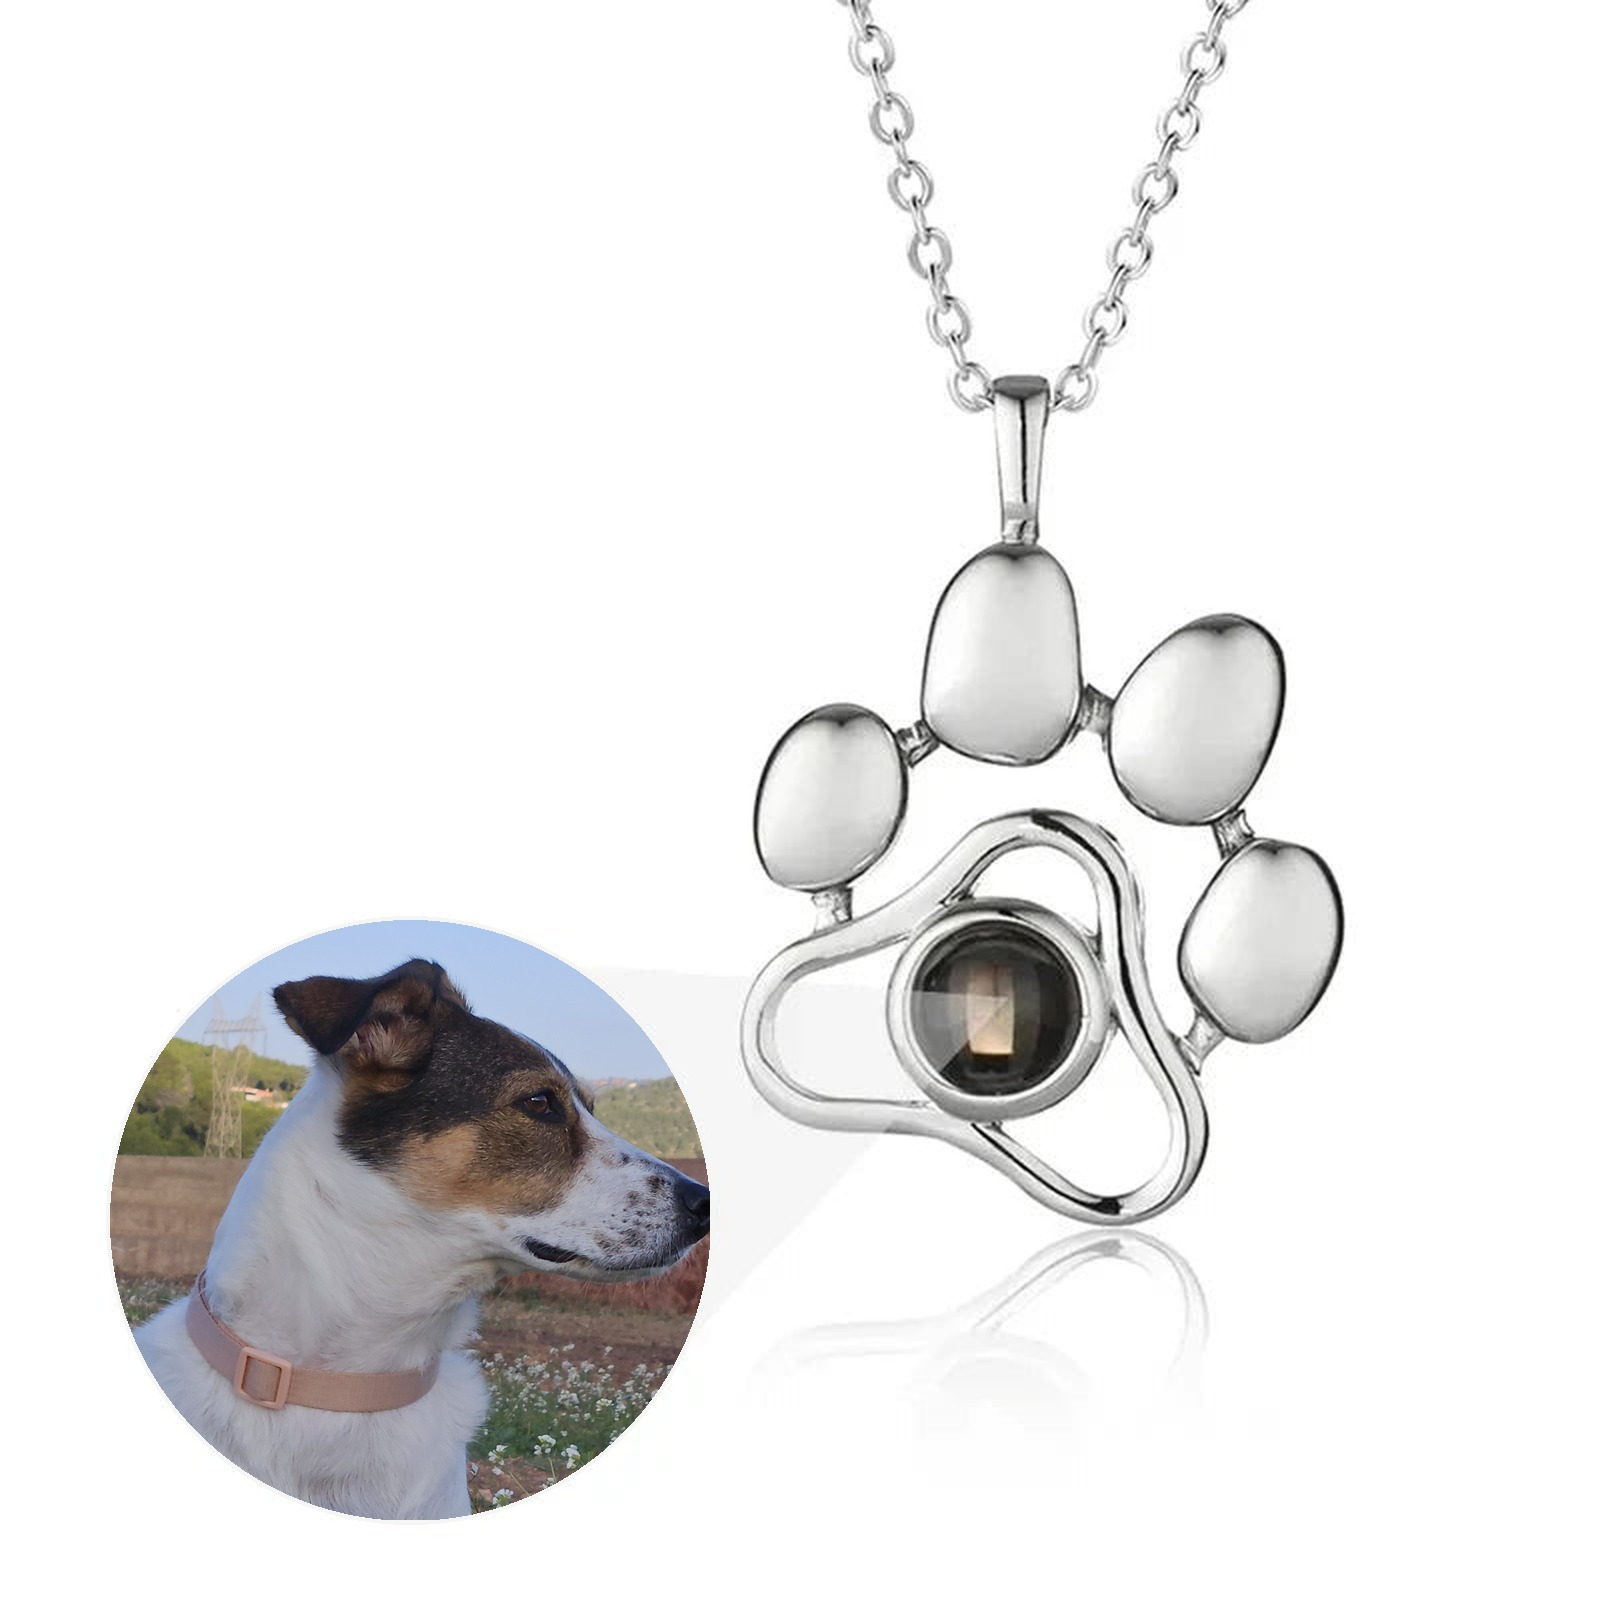
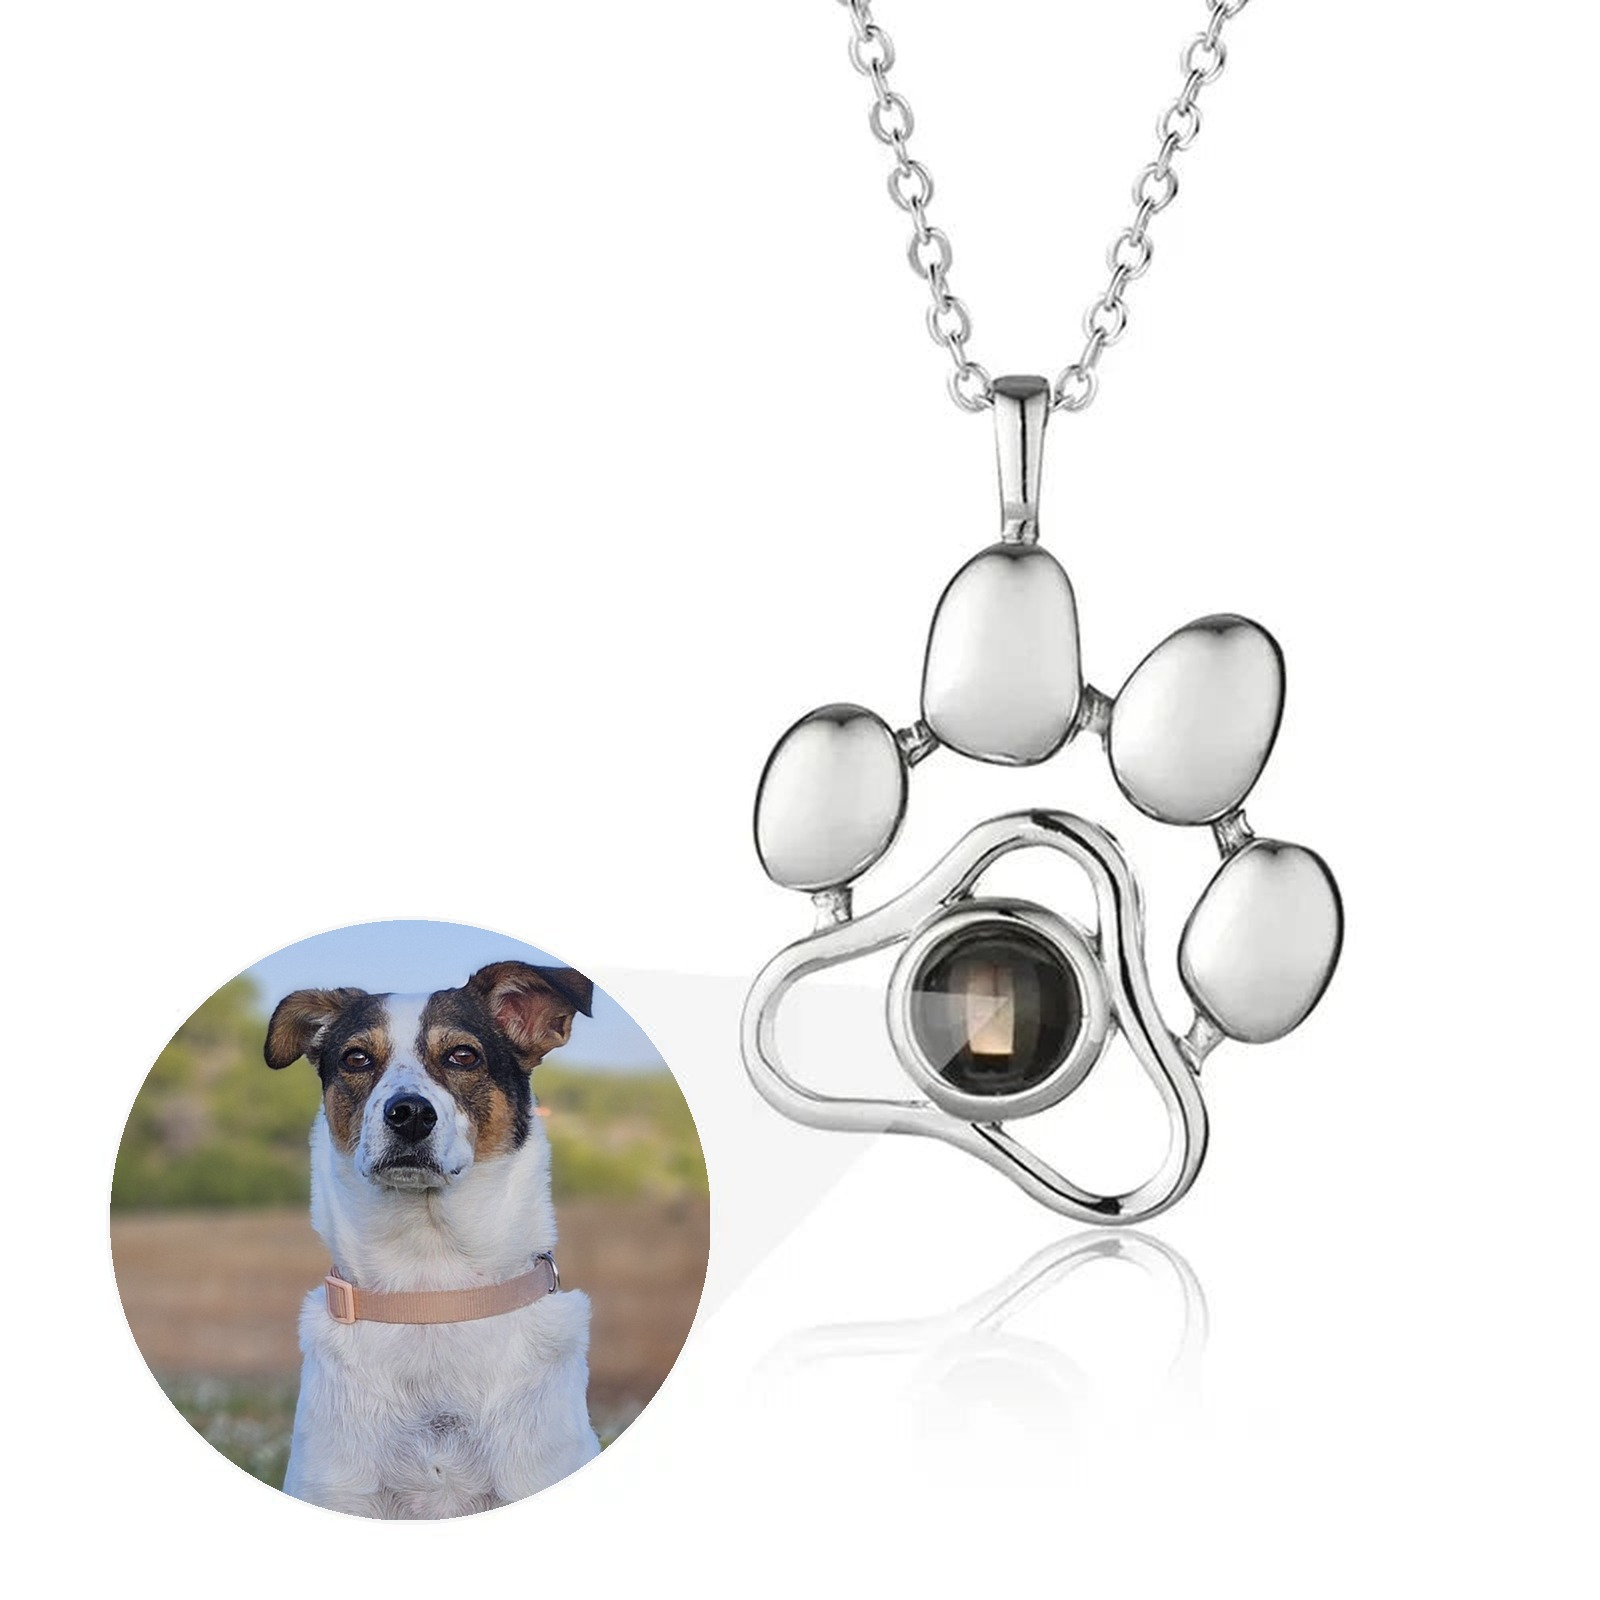
Alyha ep02 montaje, recursos (L1, linterna) y banco de próximas historias
Claude-Session: https://claude.ai/code/session_01A2ZK7ZZiebzPQrNhvhP4Ho

Changed region(s): [[0.0625, 0.5938, 0.4688, 0.9688]]

diff --git a/campanas/alyha/episodio-02/montar_ep02.py b/campanas/alyha/episodio-02/montar_ep02.py
@@ -1,0 +1,141 @@
+"""Monta el episodio 02 de Alyha (collar con foto dentro) sin coste.
+
+Uso: python3 montar_ep02.py <dir_entrada> <dir_salida> <fuente_DMSans.ttf>
+dir_entrada: L1.png, L2.png, pov.jpg, linterna.jpg, producto.jpg, real_trote.mp4
+Salida: escenas sueltas + E02-final.mp4 (con linterna) + E02-final-sin-linterna.mp4. Sin voz, sin metadatos.
+"""
+import math
+import subprocess
+import sys
+from pathlib import Path
+
+from PIL import Image, ImageDraw, ImageFilter, ImageFont
+
+IN, OUT, FONT = Path(sys.argv[1]), Path(sys.argv[2]), sys.argv[3]
+OUT.mkdir(parents=True, exist_ok=True)
+W, H, FPS = 1080, 1920, 30
+INK, CREAM, TERRA = (30, 27, 46), (251, 248, 244), (185, 83, 46)
+
+
+def font(size, weight="Bold"):
+    f = ImageFont.truetype(FONT, size)
+    f.set_variation_by_name(weight)
+    return f
+
+
+def fill(img, zoom=1.0, fx=0.5, fy=0.5):
+    """Recorte 9:16 con zoom hacia el punto (fx, fy) de la imagen."""
+    sc = max(W / img.width, H / img.height) * zoom
+    r = img.resize((int(img.width * sc) + 1, int(img.height * sc) + 1), Image.BILINEAR)
+    x = min(max(int(fx * r.width - W / 2), 0), r.width - W)
+    y = min(max(int(fy * r.height - H / 2), 0), r.height - H)
+    return r.crop((x, y, x + W, y + H))
+
+
+def caption(im, lines, t, y, size=76, box=INK, accent=()):
+    k = min(t / 0.25, 1.0)
+    fnt = font(int(size * (0.85 + 0.15 * k + 0.04 * math.sin(k * math.pi))))
+    d = ImageDraw.Draw(im, "RGBA")
+    lh = int(fnt.size * 1.3)
+    for i, line in enumerate(lines):
+        tw = d.textlength(line, font=fnt)
+        x, yy = (W - tw) / 2, y + i * lh
+        d.rounded_rectangle((x - 26, yy - 8, x + tw + 26, yy + lh - 12), 22, fill=box + (int(235 * k),))
+        cx = x
+        for word in line.split(" "):
+            hit = word.strip("…,.¡!¿?").upper() in accent
+            col = (INK if box == TERRA else TERRA) if hit else CREAM
+            d.text((cx, yy), word, font=fnt, fill=col + (int(255 * k),))
+            cx += d.textlength(word + " ", font=fnt)
+
+
+def video_frames(path, start, dur, speed=1.0):
+    vf = f"setpts={1 / speed}*PTS,fps={FPS},scale={W}:{H}:force_original_aspect_ratio=increase,crop={W}:{H}"
+    p = subprocess.Popen(["ffmpeg", "-loglevel", "error", "-ss", str(start), "-t", str(dur), "-i", str(path),
+                          "-vf", vf, "-f", "rawvideo", "-pix_fmt", "rgb24", "-"], stdout=subprocess.PIPE)
+    while (b := p.stdout.read(W * H * 3)) and len(b) == W * H * 3:
+        yield Image.frombytes("RGB", (W, H), b)
+
+
+def writer(path):
+    return subprocess.Popen(["ffmpeg", "-y", "-loglevel", "error", "-f", "rawvideo", "-pix_fmt", "rgb24",
+                             "-s", f"{W}x{H}", "-r", str(FPS), "-i", "-", "-c:v", "libx264", "-crf", "19",
+                             "-pix_fmt", "yuv420p", "-movflags", "+faststart", "-map_metadata", "-1",
+                             "-fflags", "+bitexact", str(path)], stdin=subprocess.PIPE)
+
+
+def still(src, dur, z0, z1, fx=0.5, fy=0.5):
+    img = Image.open(IN / src).convert("RGB")
+    n = int(dur * FPS)
+    return [fill(img, z0 + (z1 - z0) * i / n, fx, fy) for i in range(n)]
+
+
+def pov(dur):
+    img = Image.open(IN / "pov.jpg").convert("RGB")
+    n = int(dur * FPS)
+    out = []
+    for i in range(n):
+        t = i / FPS
+        fr = fill(img, 1.0 + 0.05 * i / n)
+        blur = max(0.0, 18 * (1 - t / 1.0))
+        out.append(fr.filter(ImageFilter.GaussianBlur(blur)) if blur > 0.3 else fr)
+    return out
+
+
+def product(dur):
+    img = Image.open(IN / "producto.jpg").convert("RGB")
+    bg = Image.new("RGB", (W, H), (246, 246, 246))
+    n = int(dur * FPS)
+    out = []
+    for i in range(n):
+        t = i / FPS
+        side = int(1080 * (1.12 - 0.12 * min(t / 0.35, 1.0)) * (1 + 0.04 * t / dur))
+        fr = bg.copy()
+        ph = img.resize((side, side), Image.BILINEAR)
+        fr.paste(ph, ((W - side) // 2, 520 + (1080 - side) // 2))
+        out.append(fr)
+    return out
+
+
+SCENES = [
+    ("escena1", lambda: still("L1.png", 3.5, 1.0, 1.45, 0.27, 0.52),
+     ["NADIE SABE LO QUE", "LLEVA DENTRO…"], {"DENTRO…"}, 1350, INK),
+    ("escena2", lambda: still("L2.png", 3.5, 1.0, 1.10, 0.45, 0.55),
+     ["Acércalo al ojo…"], {"OJO…"}, 330, INK),
+    ("escena3", lambda: pov(3.5), ["¡PERO SI SOY YO!"], {"YO!"}, 1500, INK),
+    ("escena4", lambda: still("linterna.jpg", 3.5, 1.0, 1.12, 0.6, 0.3),
+     ["Y CON LA LINTERNA…", "¡EN LA PARED!"], {"PARED!"}, 1250, INK),
+    ("escena5", lambda: list(video_frames(IN / "real_trote.mp4", 0, 6, 1.0))[: int(5 * FPS)],
+     ["ME LLEVA EN EL CORAZÓN.", "LITERAL."], {"LITERAL."}, 330, INK),
+    ("escena6", lambda: product(4.0), ["Tu foto, escondida dentro", "21 modelos"], {"DENTRO"}, 300, TERRA),
+    ("escena7", lambda: list(video_frames(IN / "real_trote.mp4", 12, 3.5, 0.85)),
+     ["34,90 €", "Para Navidad,", "antes del 24 nov*"], {"34,90"}, 1300, TERRA),
+]
+
+
+def main():
+    con = writer(OUT / "E02-final.mp4")
+    sin = writer(OUT / "E02-final-sin-linterna.mp4")
+    for name, make, lines, accent, y, box in SCENES:
+        out = writer(OUT / f"E02-{name}.mp4")
+        frames = make()
+        for i, fr in enumerate(frames):
+            fr = fr.copy()
+            caption(fr, lines, i / FPS, y, box=box, accent=accent)
+            if name == "escena7":
+                ImageDraw.Draw(fr).text((70, 1690), "*Fecha recomendada, no garantiza la entrega.",
+                                        font=font(30, "Regular"), fill=CREAM, stroke_width=2, stroke_fill=INK)
+            b = fr.tobytes()
+            out.stdin.write(b)
+            con.stdin.write(b)
+            if name != "escena4":
+                sin.stdin.write(b)
+        out.stdin.close()
+        out.wait()
+        print(name, round(len(frames) / FPS, 1), "s")
+    for p in (con, sin):
+        p.stdin.close()
+        p.wait()
+
+
+main()

diff --git a/campanas/alyha/banco-de-recursos-y-proximas-historias.md b/campanas/alyha/banco-de-recursos-y-proximas-historias.md
@@ -1,0 +1,31 @@
+# Alyha · Banco de recursos y próximas historias (revisado 02/11/2026)
+
+## Recursos disponibles
+### Vídeo y foto real (Drive; no se suben al repo público)
+| Material | Origen | Uso |
+|---|---|---|
+| Cuernos de reno, lazo navideño (DSC_0008–0010) | Nikon 01/11 | Navidad, ganchos, cierres |
+| Bandana calabaza (DSC_0001–0002) | Nikon 01/11 | Transición «de calabaza a reno» |
+| Retratos jardín (DSC_0019–0043) | Nikon 01/11 | Referencias de avatar, fotos fijas |
+| Retratos campo de flores (14 fotos, 085154–085356) | Móvil 02/11 | Burbujas/POV de producto, portadas, cierres |
+| Paseo con correa, mirando a cámara (v084342 s 0–6 y 12–16) | Móvil 02/11 | Ganchos y cierres |
+| Paseos POV por carretera/monte (v083140, v090514, v094310) y calle (v103626) | Móvil 02/11 | Recurso de transición («nos vamos…») — evitar detalles que localicen la casa |
+| Sendero de pinar (v092857) | Móvil 02/11 | Ambiente |
+| Tú abrazándola en el pinar (v093157), selfies (v091313, v093119) | Móvil 02/11 | **Solo si quieres salir** |
+| Bebiendo agua (v103740), comiendo (v104257) | Casa 02/11 | Rutinas, humor |
+| El gato de casa (v103835) | Casa 02/11 | «Dos jefes en casa» |
+| Sofá adormilada (v115012) | Casa 02/11 | Solo como plano corto de humor (baja calidad) |
+
+### Generado / compuesto (repo `campanas/alyha/`)
+- Ep01: F2 rincón, F3 caja, F4 árbol, F6 cierre (IA con referencias reales) + clip V3 (Higgsfield).
+- Ep02: huella-alyha (ficha con Alyha de frente), POV piedra, L2 mano+collar+Alyha.
+- Recursos sin usar: **L1** mujer con collar en el campo · **linterna** proyección en la pared.
+
+## Próximas historias (una por producto)
+1. **«Apaga la luz»** · Collar con foto dentro · Gancho: «Apaga la luz y mira lo que pasa». Linterna → Alyha proyectada → POV → producto. ⚠ Confirmar con la muestra o el proveedor que el modelo proyecta con linterna antes de publicarlo.
+2. **«De calabaza a reno en 3, 2, 1»** · Adorno de Navidad · Transición con chasquido entre bandana de Halloween, cuernos y lazo → «y ahora, su nombre en el árbol».
+3. **«En esta casa mandan dos»** · Colgante con foto / adorno diseño pareja · Alyha + el gato: «¿quién manda aquí?» → regalo con los dos nombres o las dos caras (enfoque familia).
+4. **«Cosas que hace y me derriten»** · Collar con nombre · Lista rápida: cómo bebe, cómo come, cómo te mira al pasear → «su nombre, siempre contigo».
+5. **«Dónde la llevo yo… y dónde me lleva ella»** · Colgante con foto · L1 (collar en el campo) + paseos por la montaña. Recicla L1.
+6. **«Nunca salgo sin…»** · Llavero con foto · POV cogiendo las llaves → paseo → «llaves, bolsa de cacas… y su carita».
+7. **(Opcional, si quieres salir)** «Me preguntan por qué siempre la abrazo» · cualquier producto con foto · tu abrazo en el pinar.
